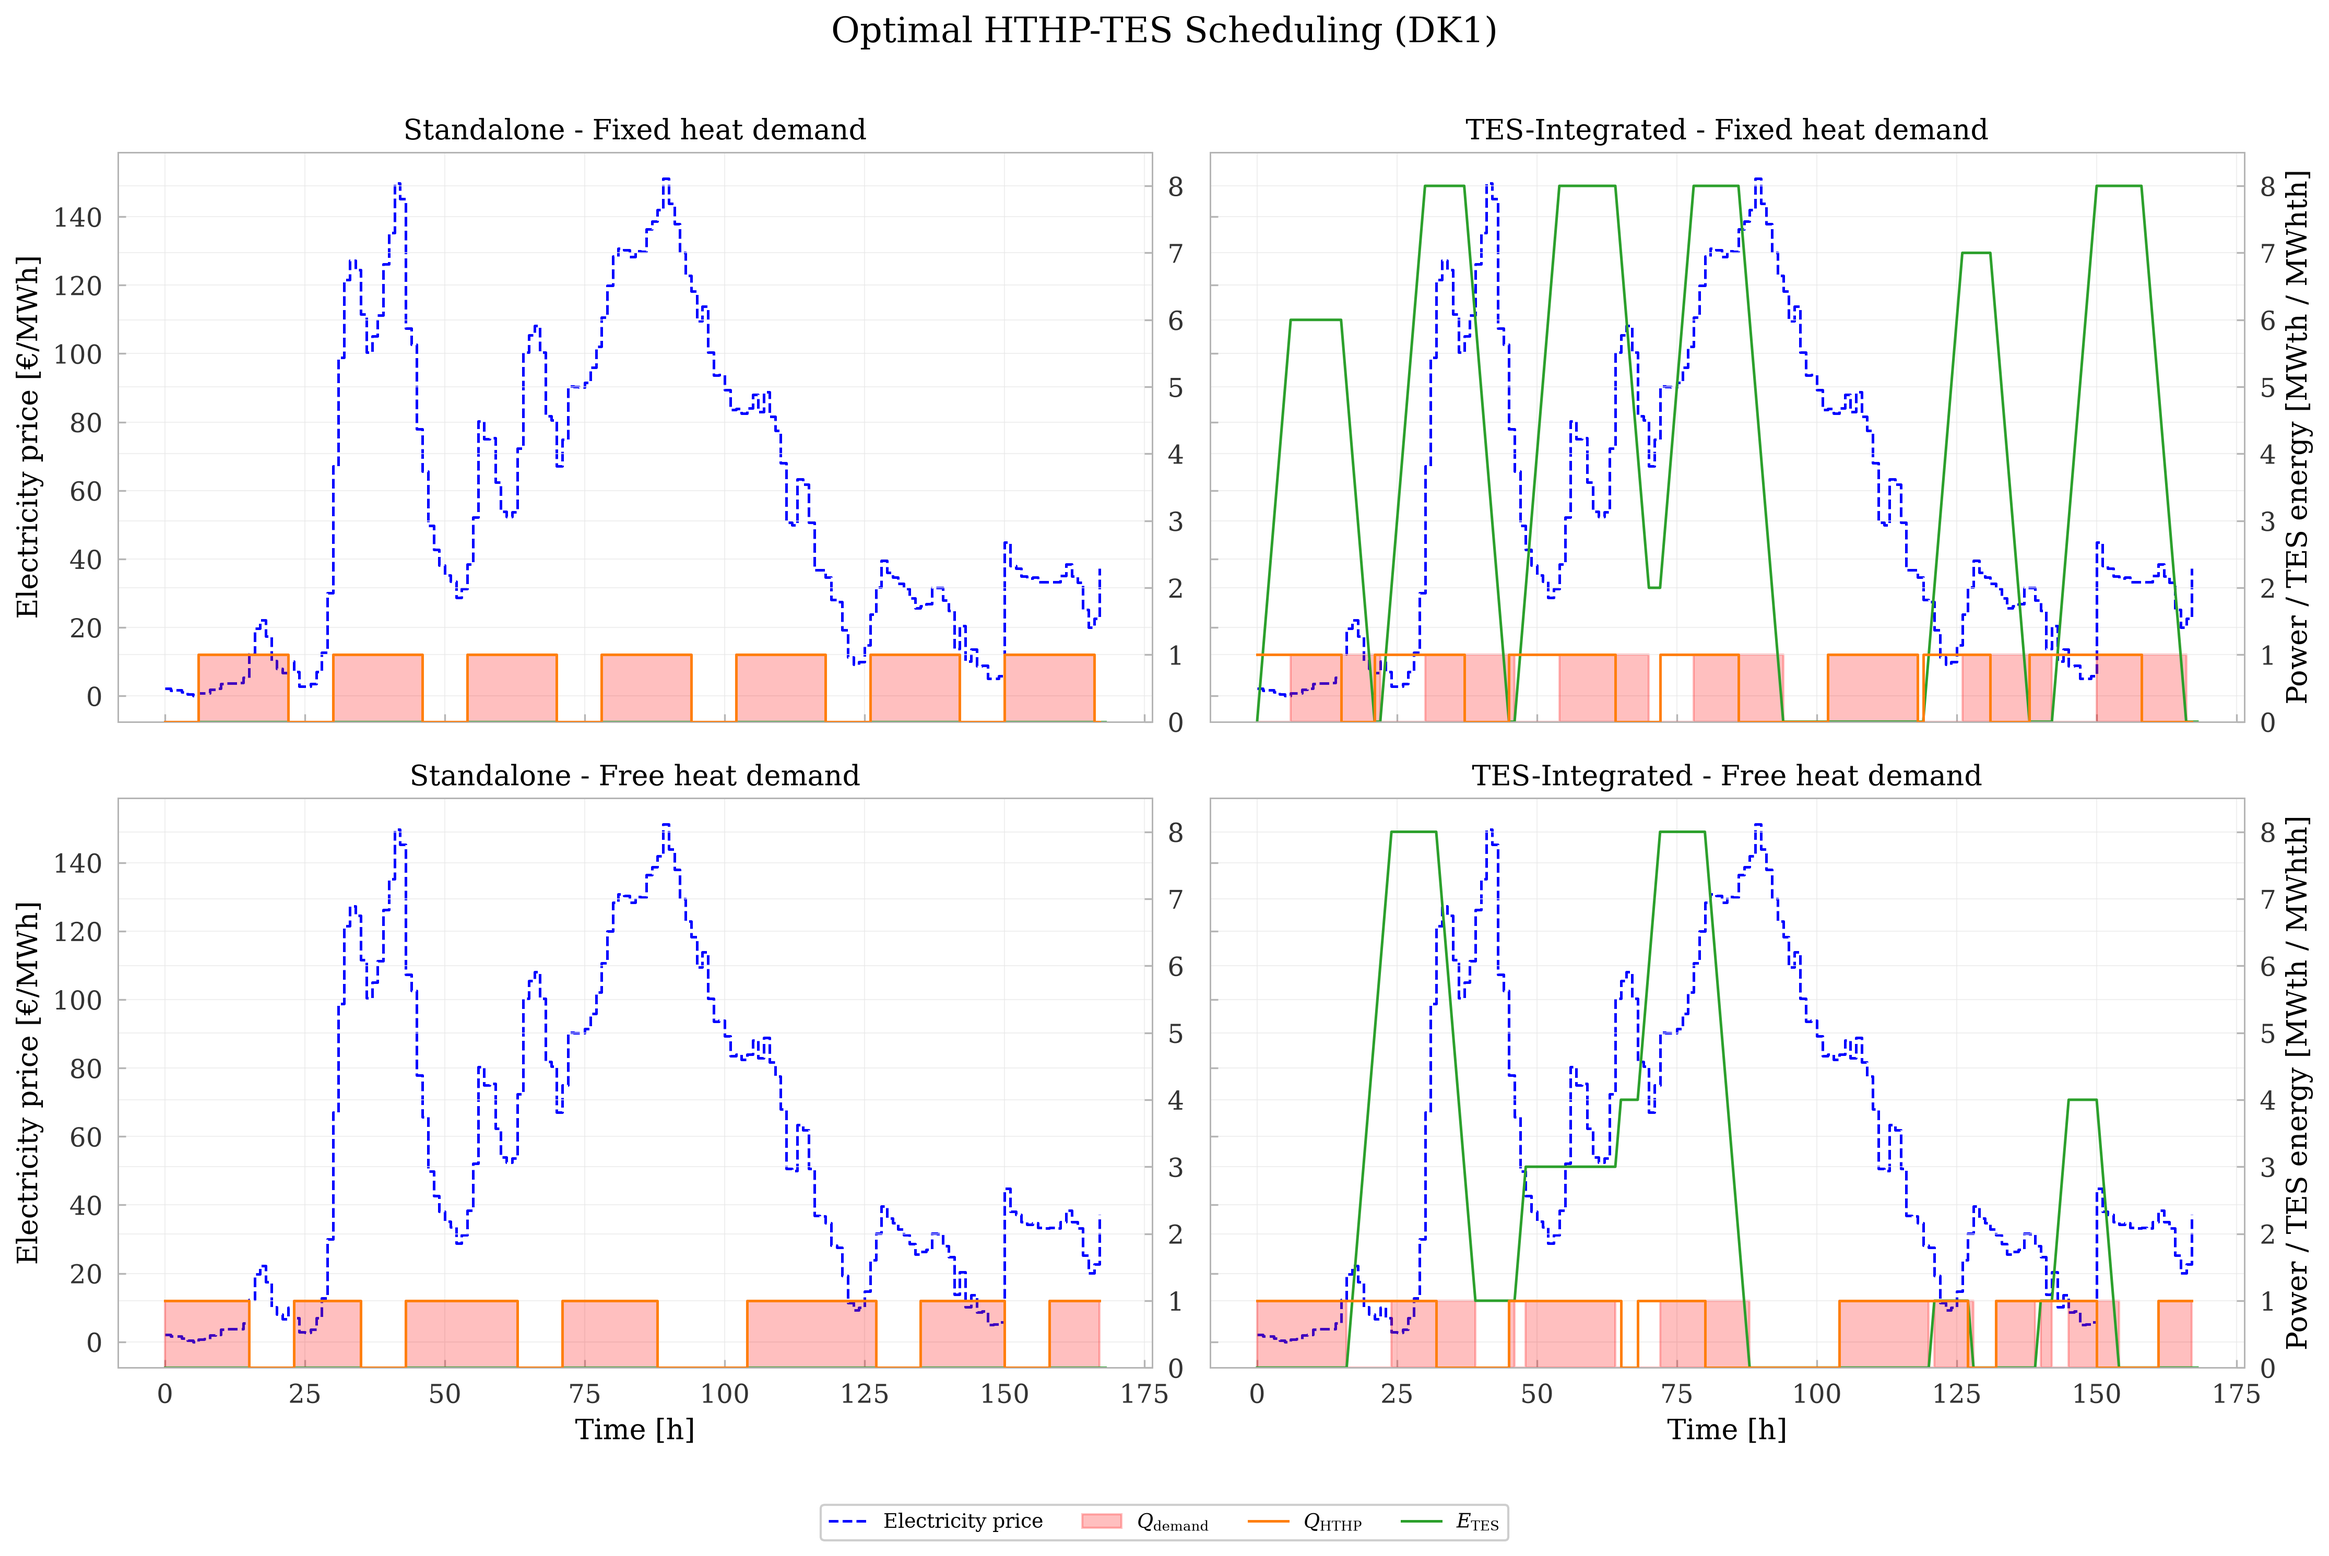
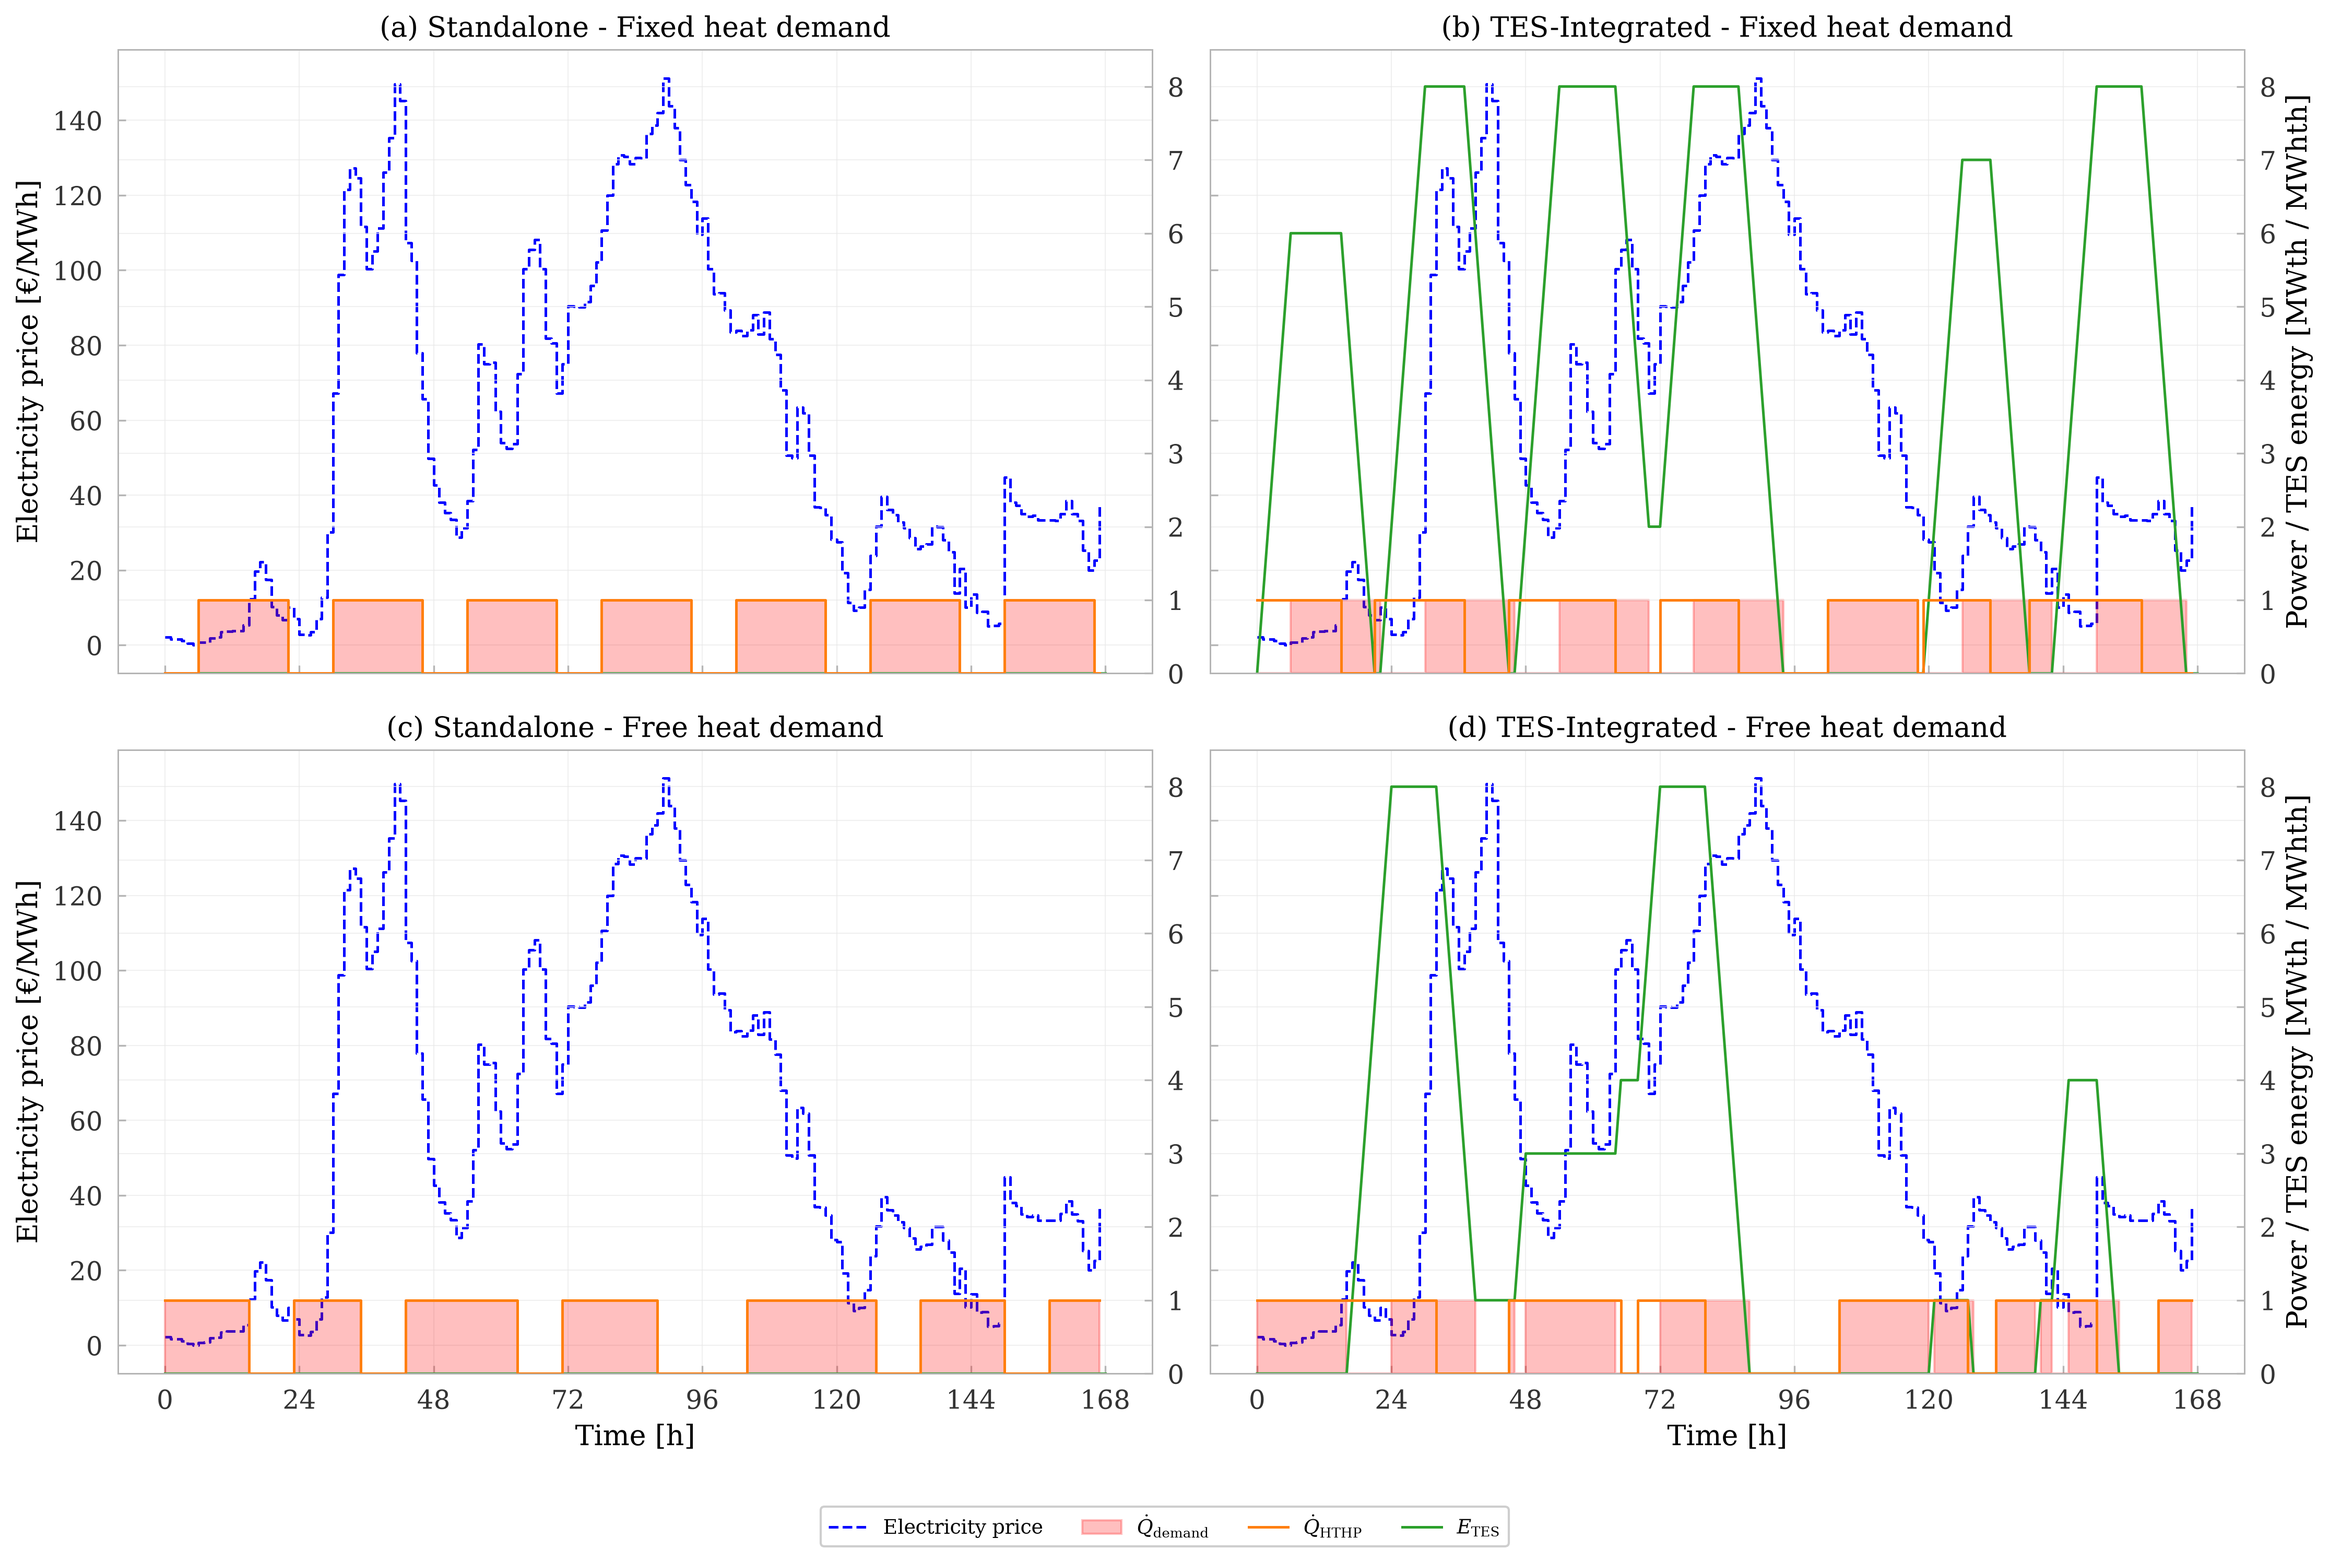
all files have been modifed with letter labels on top of figures

diff --git a/src/post_processing/economic_plotting.py b/src/post_processing/economic_plotting.py
@@ -23,6 +23,14 @@ _LINEWIDTH = PLOT_STYLE["lines_and_markers"]["linewidth"]
 _STYLE_WIDTH, _STYLE_HEIGHT = PLOT_STYLE["figure"]["figsize"]
 _FIGSIZE = (_STYLE_WIDTH * 2, _STYLE_HEIGHT)
 
+# Resolution of the operational strategy figure (higher than the project-wide
+# PLOT_STYLE dpi, which is tuned for the compact diagrams).
+_DPI = 300
+
+# The time axis is labelled every 24 h (daily) as long as the period is at
+# most this many days long; longer periods keep matplotlib's automatic ticks.
+_MAX_DAILY_TICK_DAYS = 14
+
 
 def _plant_E_TES(plant) -> float:
     """Read the TES capacity off `result.plant`, which may be a `Plant`
@@ -88,7 +96,7 @@ def _draw_operational_strategy(ax1, result, power_axis_max=None):
         step="post",
         color=_COLORS["process"],
         alpha=0.25,
-        label=r"$Q_{\mathrm{demand}}$",
+        label=r"$\dot{Q}_{\mathrm{demand}}$",
         zorder=1,
     )
 
@@ -99,7 +107,7 @@ def _draw_operational_strategy(ax1, result, power_axis_max=None):
         color=_COLORS["fuel"],
         linewidth=_LINEWIDTH,
         linestyle="-",
-        label=r"$Q_{\mathrm{HTHP}}$",
+        label=r"$\dot{Q}_{\mathrm{HTHP}}$",
         zorder=3,
     )
 
@@ -117,6 +125,11 @@ def _draw_operational_strategy(ax1, result, power_axis_max=None):
     )
     _style_axes(ax2)
 
+    # daily time ticks: 0, 24, 48, 72, ...
+    n_hours = len(result.time)
+    if n_hours <= 24 * _MAX_DAILY_TICK_DAYS:
+        ax1.set_xticks(range(0, n_hours + 1, 24))
+
     line2 = ax2.collections[-1]
     return ax2, line1 + [line2] + line3 + line4
 
@@ -128,13 +141,15 @@ def plot_operational_strategy(
     row_labels=None,
     col_labels=None,
     power_axis_max: Optional[float] = 8.5,
+    dpi: int = _DPI,
 ):
     """Plot price, demand, HTHP schedule and TES state of charge for one or
     several ``optimize_operational_strategy`` results, styled per
     ``PLOT_STYLE``.
 
     With one result the figure is a single plot. With several results the
-    figure is a grid of subplots, one per result, in the order given.
+    figure is a grid of subplots, one per result, in the order given, each
+    labelled (a), (b), (c), ... plus its name.
 
     Parameters
     ----------
@@ -154,18 +169,21 @@ def plot_operational_strategy(
         The figure is saved as ``<file_name>_operational_strategy.png``.
         Required when `save_path` is given.
     save_path : str | Path, optional
-        Directory the figure is saved in (created if missing; dpi and
-        facecolor per ``PLOT_STYLE["figure"]``). If None, nothing is saved.
+        Directory the figure is saved in (created if missing; facecolor per
+        ``PLOT_STYLE["figure"]``). If None, nothing is saved.
     row_labels, col_labels : list of str, optional
         Labels of the rows / columns of a grid; each panel is titled
-        "<column> - <row>". Defaults for a 2x2 grid: rows "Fixed heat
+        "(a) <column> - <row>". Defaults for a 2x2 grid: rows "Fixed heat
         demand" / "Free heat demand", columns "Standalone" /
-        "TES-Integrated". Without labels (other shapes) panels are untitled.
+        "TES-Integrated". Without labels (other shapes) panels are titled
+        just "(a)", "(b)", ...
     power_axis_max : float, optional
         Upper limit [MWth / MWhth] of the power / TES energy axis, the same
         in every panel (and in the single plot), so all figures are directly
         comparable (default 8.5). None: each panel is scaled to its own
         plant's TES capacity.
+    dpi : int
+        Resolution of the figure and of the saved file (default 300).
 
     Returns
     -------
@@ -203,7 +221,7 @@ def plot_operational_strategy(
         n_rows,
         n_cols,
         figsize=figsize,
-        dpi=PLOT_STYLE["figure"]["dpi"],
+        dpi=dpi,
         facecolor=PLOT_STYLE["figure"]["facecolor"],
         sharex=True,
         sharey=True,
@@ -228,20 +246,24 @@ def plot_operational_strategy(
                     "Power / TES energy [MWth / MWhth]", fontsize=_FONTS["label"]
                 )
 
-            title = " - ".join(
-                x
-                for x in (
-                    col_labels[c] if col_labels else None,
-                    row_labels[r] if row_labels else None,
+            if not single:
+                letter = f"({chr(ord('a') + r * n_cols + c)})"
+                name = " - ".join(
+                    x
+                    for x in (
+                        col_labels[c] if col_labels else None,
+                        row_labels[r] if row_labels else None,
+                    )
+                    if x
                 )
-                if x
-            )
-            if title:
-                ax1.set_title(title, fontsize=_FONTS["label"])
+                ax1.set_title(
+                    f"{letter} {name}" if name else letter, fontsize=_FONTS["label"]
+                )
 
     labels = [h.get_label() for h in handles]
     if single:
         axes[0, 0].legend(handles, labels, loc="upper left", fontsize=_FONTS["legend"])
+        fig.tight_layout()
     else:
         fig.legend(
             handles,
@@ -252,15 +274,7 @@ def plot_operational_strategy(
             fontsize=_FONTS["legend"],
             framealpha=0.95,
         )
-
-    fig.suptitle(
-        f"Optimal HTHP-TES Scheduling ({grid[0][0].market})",
-        fontsize=_FONTS["title"],
-    )
-    if single:
-        fig.tight_layout()
-    else:
-        fig.tight_layout(rect=(0, 0.05, 1, 0.97))
+        fig.tight_layout(rect=(0, 0.05, 1, 1))
 
     if save_path is not None:
         if file_name is None:
@@ -269,7 +283,7 @@ def plot_operational_strategy(
         save_path.mkdir(parents=True, exist_ok=True)
         fig.savefig(
             save_path / f"{file_name}_operational_strategy.png",
-            dpi=PLOT_STYLE["figure"]["dpi"],
+            dpi=dpi,
             bbox_inches="tight",
             facecolor=PLOT_STYLE["figure"]["facecolor"],
         )

diff --git a/src/post_processing/cost_plotting.py b/src/post_processing/cost_plotting.py
@@ -545,7 +545,7 @@ def plot_delta_lcoh_analysis(
     x_groups = np.arange(len(scenarios), dtype=float)
     step = 0.3  # horizontal spacing between layouts inside a scenario
 
-    for ax, market in zip(axes, markets):
+    for k, (ax, market) in enumerate(zip(axes, markets)):
         ax.axhline(0, color=_COLORS["edge"], linewidth=_LINEWIDTH, zorder=2)
 
         for p, (_, delta) in enumerate(deltas):
@@ -584,7 +584,7 @@ def plot_delta_lcoh_analysis(
         ax.set_xticks(x_groups)
         ax.set_xticklabels([str(s).capitalize() for s in scenarios])
         ax.set_xlabel("Scenario", fontsize=_FONTS["label"])
-        ax.set_title(market, fontsize=_FONTS["label"])
+        ax.set_title(f"({chr(ord('a') + k)}) {market}", fontsize=_FONTS["label"])
 
         # which side of the zero line means what
         ax.text(
